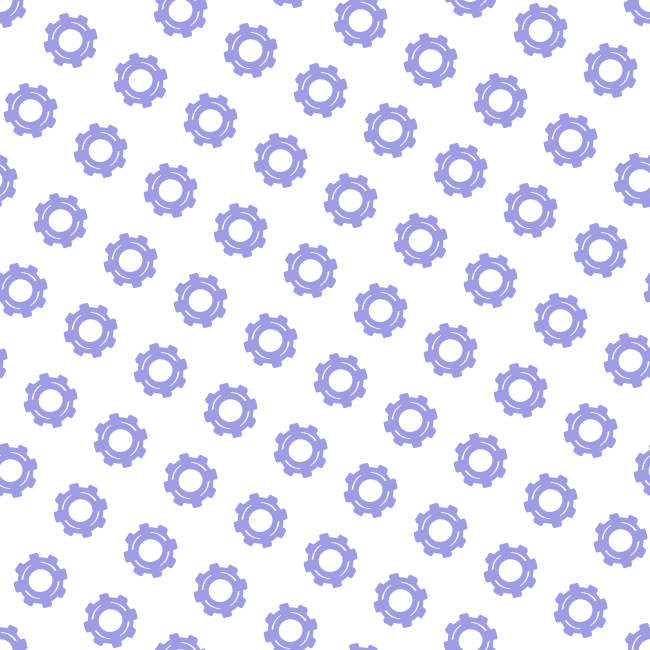
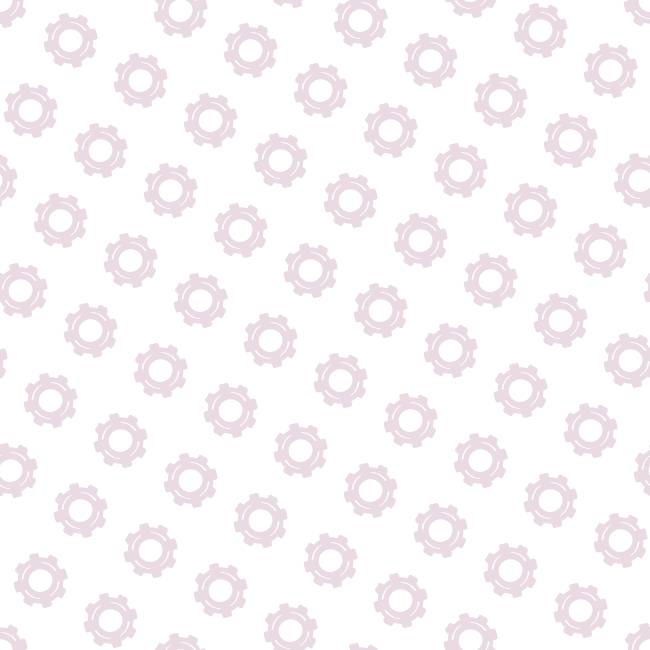
Rebrand Settings page with berry background and updated gear pattern while preserving scrolling size and speed

diff --git a/index.html b/index.html
@@ -238,6 +238,34 @@
       background-repeat: no-repeat !important;
     }
 
+    /* Settings Screen Full-Bleed Rebranded Berry Backdrop & Safe Area Layout */
+    #screenSettings {
+      background: #651b46 !important;
+      background-color: #651b46 !important;
+      background-image: url('assets/PurpleBG.png') !important;
+      background-size: cover !important;
+      background-position: center !important;
+      background-repeat: no-repeat !important;
+    }
+
+    body:has(#screenSettings.active) {
+      background: #651b46 !important;
+      background-color: #651b46 !important;
+      background-image: url('assets/PurpleBG.png') !important;
+      background-size: cover !important;
+      background-position: center !important;
+      background-repeat: no-repeat !important;
+    }
+
+    body:has(#screenSettings.active) .device-screen {
+      background: #651b46 !important;
+      background-color: #651b46 !important;
+      background-image: url('assets/PurpleBG.png') !important;
+      background-size: cover !important;
+      background-position: center !important;
+      background-repeat: no-repeat !important;
+    }
+
     /* Home Custom Transparent Header - Respects iOS Tablet Safe Area */
     .home-custom-header {
       width: 100%;
@@ -9229,7 +9257,12 @@
     /* SCREEN 6: SETTINGS SCREEN                                 */
     /* ========================================================= */
     #screenSettings {
-      background-color: var(--riley-purple, #5931ba) !important;
+      background: #651b46 !important;
+      background-color: #651b46 !important;
+      background-image: url('assets/PurpleBG.png') !important;
+      background-size: cover !important;
+      background-position: center !important;
+      background-repeat: no-repeat !important;
       color: #1e293b;
       overflow: hidden !important;
       position: absolute !important;
@@ -12811,6 +12844,34 @@
       background: #651b46 !important;
       background-color: #651b46 !important;
       background-image: url('assets/MatchingGameBG.png') !important;
+      background-size: cover !important;
+      background-position: center !important;
+      background-repeat: no-repeat !important;
+    }
+
+    /* Settings Screen Full-Bleed Rebranded Berry Backdrop & Safe Area Layout */
+    #screenSettings {
+      background: #651b46 !important;
+      background-color: #651b46 !important;
+      background-image: url('assets/PurpleBG.png') !important;
+      background-size: cover !important;
+      background-position: center !important;
+      background-repeat: no-repeat !important;
+    }
+
+    body:has(#screenSettings.active) {
+      background: #651b46 !important;
+      background-color: #651b46 !important;
+      background-image: url('assets/PurpleBG.png') !important;
+      background-size: cover !important;
+      background-position: center !important;
+      background-repeat: no-repeat !important;
+    }
+
+    body:has(#screenSettings.active) .device-screen {
+      background: #651b46 !important;
+      background-color: #651b46 !important;
+      background-image: url('assets/PurpleBG.png') !important;
       background-size: cover !important;
       background-position: center !important;
       background-repeat: no-repeat !important;

diff --git a/preview/index.html b/preview/index.html
@@ -336,6 +336,34 @@
       background-repeat: no-repeat !important;
     }
 
+    /* Settings Screen Full-Bleed Rebranded Berry Backdrop & Safe Area Layout */
+    #screenSettings {
+      background: #651b46 !important;
+      background-color: #651b46 !important;
+      background-image: url('assets/PurpleBG.png') !important;
+      background-size: cover !important;
+      background-position: center !important;
+      background-repeat: no-repeat !important;
+    }
+
+    body:has(#screenSettings.active) {
+      background: #651b46 !important;
+      background-color: #651b46 !important;
+      background-image: url('assets/PurpleBG.png') !important;
+      background-size: cover !important;
+      background-position: center !important;
+      background-repeat: no-repeat !important;
+    }
+
+    body:has(#screenSettings.active) .device-screen {
+      background: #651b46 !important;
+      background-color: #651b46 !important;
+      background-image: url('assets/PurpleBG.png') !important;
+      background-size: cover !important;
+      background-position: center !important;
+      background-repeat: no-repeat !important;
+    }
+
     /* Home Custom Transparent Header - Respects iOS Tablet Safe Area */
     .home-custom-header {
       width: 100%;
@@ -9327,7 +9355,12 @@
     /* SCREEN 6: SETTINGS SCREEN                                 */
     /* ========================================================= */
     #screenSettings {
-      background-color: var(--riley-purple, #5931ba) !important;
+      background: #651b46 !important;
+      background-color: #651b46 !important;
+      background-image: url('assets/PurpleBG.png') !important;
+      background-size: cover !important;
+      background-position: center !important;
+      background-repeat: no-repeat !important;
       color: #1e293b;
       overflow: hidden !important;
       position: absolute !important;

diff --git a/iOS/RileyApp/Sources/SettingsView.swift b/iOS/RileyApp/Sources/SettingsView.swift
@@ -26,9 +26,18 @@ public struct SettingsView: View {
         GeometryReader { proxy in
             let isLandscape = proxy.size.width > proxy.size.height
             ZStack(alignment: .top) {
-                // Base background color
-                AppTheme.primaryPurple
+                // Base rebranded background color & gradient backdrop
+                Color(hex: "651b46")
                     .ignoresSafeArea()
+                
+                if let purpleBg = UIImage(named: "PurpleBG") {
+                    Image(uiImage: purpleBg)
+                        .resizable()
+                        .aspectRatio(contentMode: .fill)
+                        .frame(width: proxy.size.width, height: proxy.size.height)
+                        .clipped()
+                        .ignoresSafeArea()
+                }
                 
                 // Animated Scrolling Gear Background Pattern carried up to top of screen
                 scrollingPatternLayer(size: proxy.size)

diff --git a/sw.js b/sw.js
@@ -1,5 +1,5 @@
 // Riley PWA Service Worker
-const CACHE_NAME = 'riley-pwa-v297';
+const CACHE_NAME = 'riley-pwa-v299';
 const PRECACHE_ASSETS = [
   './',
   './index.html',
@@ -139,6 +139,7 @@ const PRECACHE_ASSETS = [
   './assets/SettingsTitleSoundEffects.png',
   './assets/SettingsBackgroundPattern.png',
   './assets/SettingsSingleGear.png',
+  './assets/SettingsBG.png',
   './assets/GamesBackgroundPattern.png',
   './assets/GamesScroll.png',
   './assets/AboutChildsPlay.png',

diff --git a/scripts/build.py b/scripts/build.py
@@ -261,6 +261,34 @@ def build_distribution():
       background-repeat: no-repeat !important;
     }
 
+    /* Settings Screen Full-Bleed Rebranded Berry Backdrop & Safe Area Layout */
+    #screenSettings {
+      background: #651b46 !important;
+      background-color: #651b46 !important;
+      background-image: url('assets/PurpleBG.png') !important;
+      background-size: cover !important;
+      background-position: center !important;
+      background-repeat: no-repeat !important;
+    }
+
+    body:has(#screenSettings.active) {
+      background: #651b46 !important;
+      background-color: #651b46 !important;
+      background-image: url('assets/PurpleBG.png') !important;
+      background-size: cover !important;
+      background-position: center !important;
+      background-repeat: no-repeat !important;
+    }
+
+    body:has(#screenSettings.active) .device-screen {
+      background: #651b46 !important;
+      background-color: #651b46 !important;
+      background-image: url('assets/PurpleBG.png') !important;
+      background-size: cover !important;
+      background-position: center !important;
+      background-repeat: no-repeat !important;
+    }
+
     /* Child Life Zone Jigsaw Puzzle Screen Full-Bleed Rebranded Berry Backdrop & Safe Area Layout */
     #screenCLZPuzzle {
       background: #591a3f !important;
